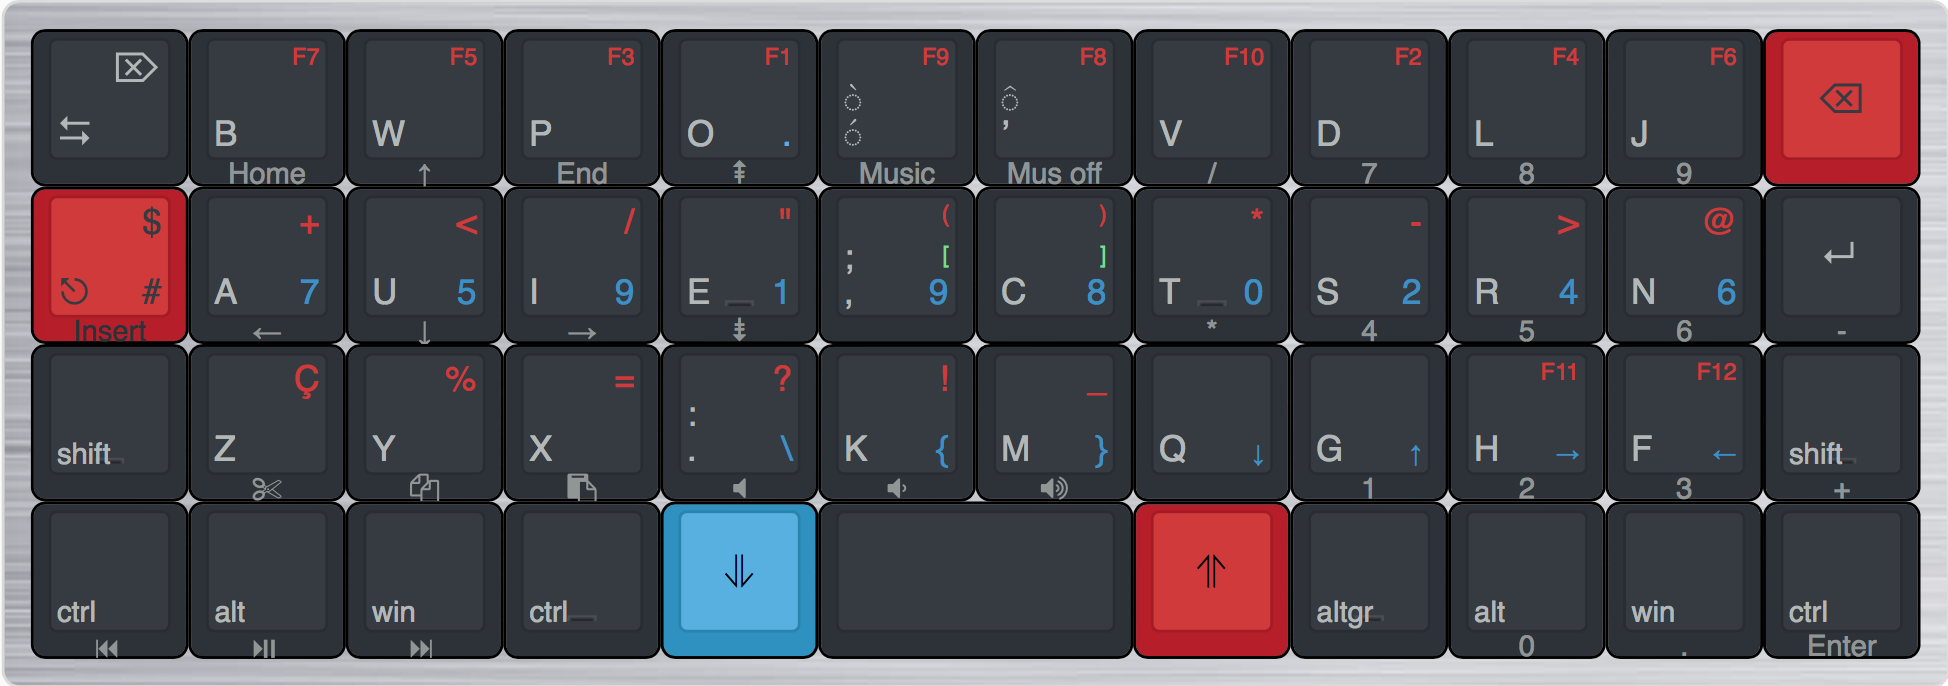
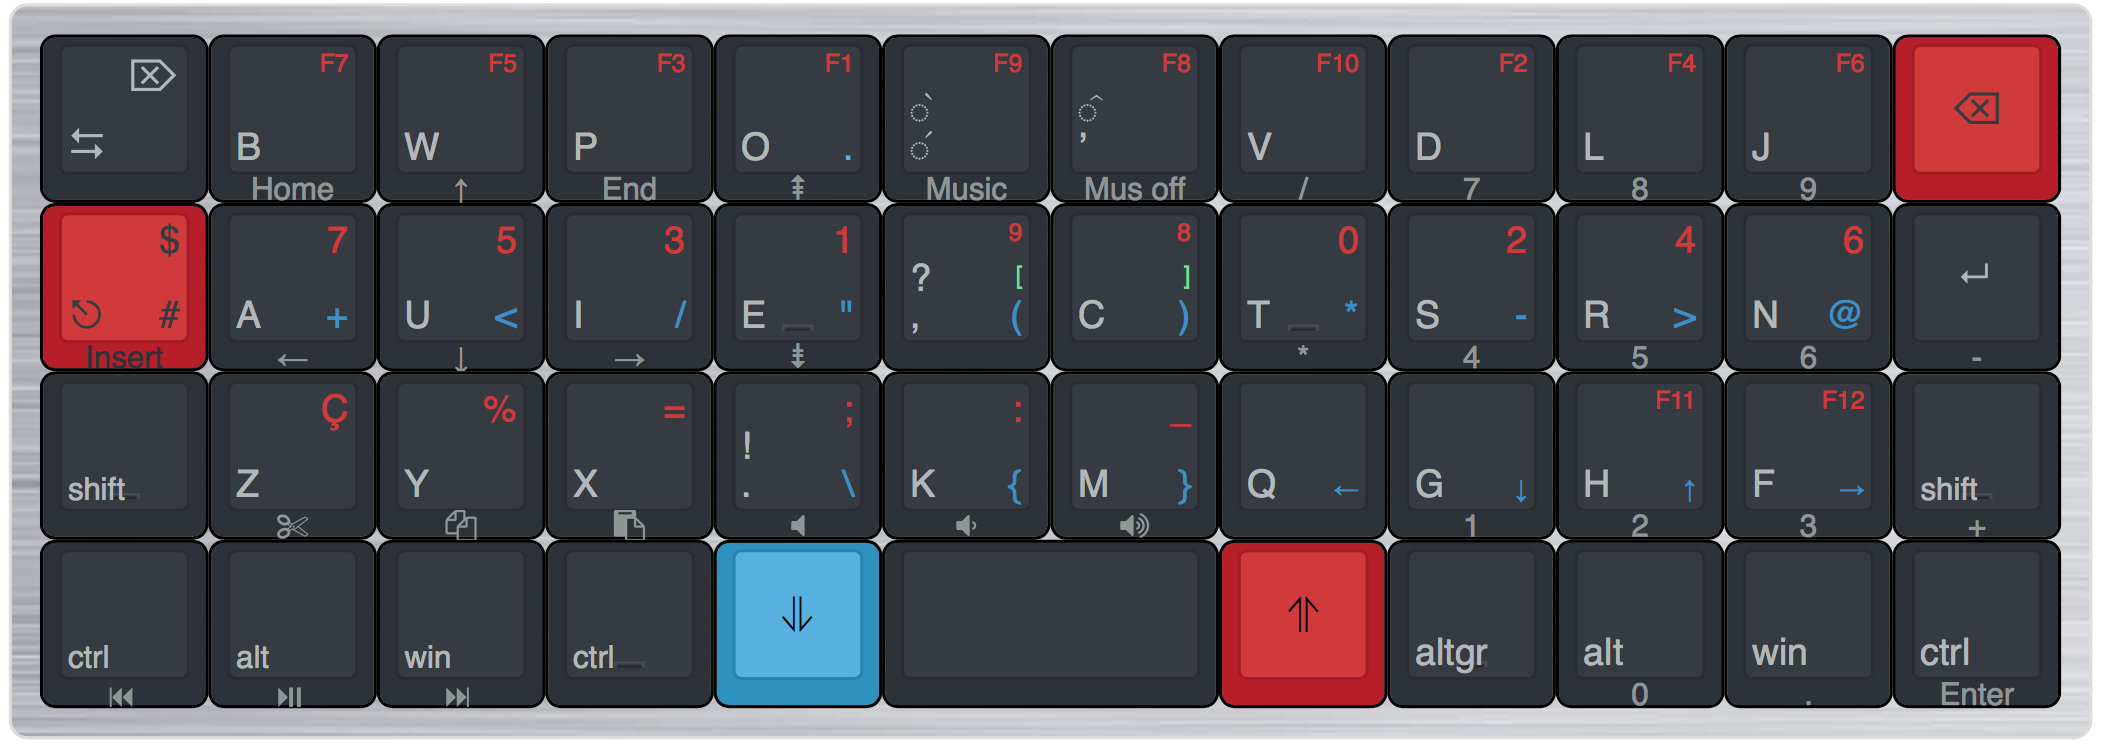
Update readme

diff --git a/README.md b/README.md
@@ -1,25 +1,16 @@
 # Optimo Keyboard Layout
 
-The Optimo layout is a fork of the [bepo](http://bepo.fr) layout adapted
-to the reduced format (40%) of the Planck Keyboard:
+The Optimo layout is a fork of the [bepo](http://bepo.fr) layout. It has
+been adapted to the reduced format (40%) of the Planck Keyboard:
 
 * New position of M, W and Z
-* Direct access to ´ (dead acute), better access to \` (dead grave)
-* New positions for ; : { } ? !
+* Direct access to ´ (dead acute), shift access to \` (dead grave)
 
 * Developer oriented changes:
   * Direct access to numbers (since version
-    [1.7](https://github.com/sgdjs/optimo/releases/tag/untagged-0b836ca9deaf096bc08d))
-  * < and > in direct access, reversed with « and »
-  * \ { } \_ and no-break space on new positions
-
-## Optimo+
-
-Layout for the Optimo Planck keyboard (firmware [here](https://github.com/sgdjs/qmk_firmware/tree/optimo/keyboards/planck/keymaps/optimo))
-
-* Optimized line of numbers and symbols
-
-![Otimp](optimp/bepo-Optimp.png)
+    [1.7](https://github.com/sgdjs/optimo/releases/tag/1.7))
+  * < and > in shift access, « and » in alt-gr
+  * \ { } \_ ; : ? ! and no-break space on new positions
 
 ## Optimo
 
@@ -32,6 +23,14 @@ Layout for orthogonal or staggered keyboards of 104 keys
 Layout for ISO keyboards of 105 keys 
 
 ![Image](optima/bepo-Optima.png)
+
+## OptimoP
+
+Optimo layout for the Planck keyboard (firmware [here](https://github.com/sgdjs/qmk_firmware/tree/optimo/keyboards/planck/keymaps/optimo))
+
+* Optimized line of numbers and symbols
+
+![Otimp](optimp/bepo-Optimp.png)
 
 # Installation (Mac and Windows)
 
